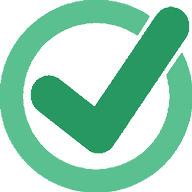
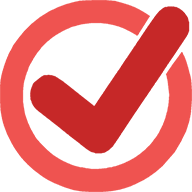
Cambio colore di default in red + modifica immagini

diff --git a/assets/js/theme.js b/assets/js/theme.js
@@ -3,16 +3,16 @@ import { COLORS } from "./colors.js"
 const THEME_STORAGE_KEY = "sport_checklist_theme"
 
 export const THEMES = {
+    RED: "red",
     GREEN: "green",
     BLUE: "blue",
     ORANGE: "orange",
-    RED: "red",
     PURPLE: "purple"
 }
 
 export function getTheme(){
     return localStorage.getItem(THEME_STORAGE_KEY)
-        || THEMES.GREEN
+        || THEMES.RED
 }
 export function setTheme(theme){
     localStorage.setItem(

diff --git a/service-worker.js b/service-worker.js
@@ -12,9 +12,8 @@ const urlsToCache=[
     "./assets/data/it.json",
     "./assets/images/icon-192.png",
     "./assets/images/icon-512.png",
-    "./assets/images/image_header.png",
-    "./assets/images/logo_sportchecklist_en.png",
-    "./assets/images/logo_sportchecklist_it.png"
+    "./assets/images/header.png",
+    "./assets/images/logo.png"
 
 ]
 

diff --git a/assets/js/app.js b/assets/js/app.js
@@ -58,9 +58,7 @@ fab.addEventListener("click", () => {
 
 // ---------- Logo ----------
 function getLogoImage() {
-    return getEffectiveLanguage() === "en"
-        ? "assets/images/logo_sportchecklist_en.png"
-        : "assets/images/logo_sportchecklist_it.png"
+    return "assets/images/logo.png"
 }
 
 // ---------- Creazione checklist ----------

diff --git a/index.html b/index.html
@@ -29,7 +29,7 @@
 <body>
 
 <header class="top-bar">
-    <img src="assets/images/image_header.png" class="header-logo">
+    <img src="assets/images/header.png" class="header-logo">
 
     <!-- MENU DROPDOWN -->
     <span id="menuBtn" class="material-icons menu-icon">more_vert</span>
